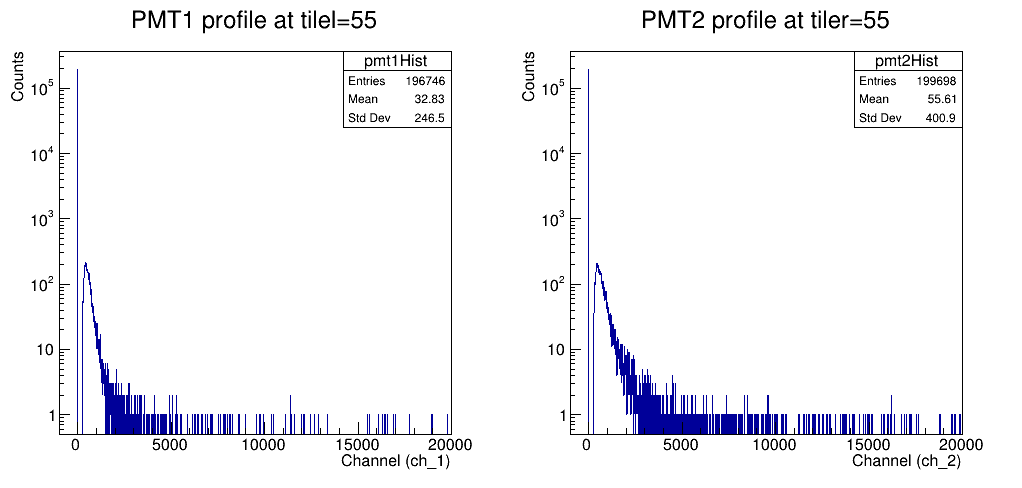
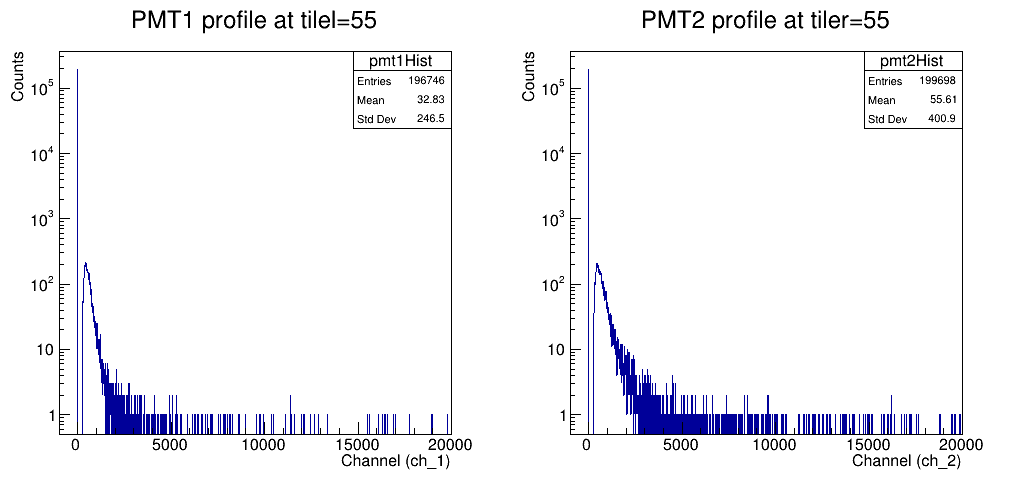
Adde tree ch_1 and ch_2 profiles

Changed region(s): [[0.3337, 0.0922, 0.455, 0.2766], [0.819, 0.0922, 0.9403, 0.2766]]

diff --git a/src/helper/TreeHelper.cpp b/src/helper/TreeHelper.cpp
@@ -56,6 +56,44 @@ int TreeHelper::init(const char* fileName){
 	return 0;
 }
 
+void TreeHelper::plotTreeProfiles(){
+	// Construct histograms for the TTree profiles (ch_1 and ch_2)
+	TH1F* ch1Hist = new TH1F("ch1Hist", "Channel profile for PMT1", Constants::CH_BINS, Constants::CH_MIN, Constants::CH_MAX);
+	ch1Hist->GetXaxis()->SetTitle("Events");
+	ch1Hist->SetStats(0);
+	ch1Hist->GetYaxis()->SetTitle("Channel (ch_1)");
+	TH1F* ch2Hist = new TH1F("ch2Hist", "Channel profile for PMT2", Constants::CH_BINS, Constants::CH_MIN, Constants::CH_MAX);
+	ch1Hist->GetXaxis()->SetTitle("Events");
+	ch1Hist->SetStats(0);
+	ch1Hist->GetYaxis()->SetTitle("Channel (ch_2)");
+
+	const char* treeName = myTree->GetName(); //Constants::getInstance()->parameters.treeName.Data();
+	TString myCanvasName = TString::Format("%s-ch_1-ch_2", treeName);
+	TString myCanvasTitle = TString::Format("TTree \"%s\" channel profiles. File \"%s\"", treeName, fileName->Data());
+	TCanvas* myCanvas = new TCanvas(myCanvasName, myCanvasTitle, 1024, 1024);
+	myCanvas->Divide(1,2);
+
+	TVirtualPad* pad1 = myCanvas->cd(1);
+	pad1->SetLogz();
+	pad1->SetLeftMargin(0.15);
+	pad1->SetRightMargin(0.15);
+	myTree->Draw("ch_1>>ch1Hist","",""); // no canvas, draw directly to histogram
+	pad1->SetLogy();
+	ch1Hist->Draw();
+
+	TVirtualPad* pad2 = myCanvas->cd(2);
+	pad2->SetLogz();
+	pad2->SetLeftMargin(0.15);
+	pad2->SetRightMargin(0.15);
+	myTree->Draw("ch_2>>ch2Hist","",""); // no canvas, draw directly to histogram
+	pad2->SetLogy();
+	ch2Hist->Draw();
+
+	// Save canvas to file
+	// TString pngFilePath = TString(myCanvas->GetName()) + ".png";
+	// myCanvas->SaveAs(pngFilePath);
+}
+
 void TreeHelper::plotTree(){
 	// Construct histograms (ch_1:tilel) and (ch_2:tiler) from the TTree
 	TH2F* ch1TilelHist = new TH2F("ch1TilelHist", "Channel vs Tile for PMT1",
@@ -84,7 +122,7 @@ void TreeHelper::plotTree(){
 	amp2TilerHist->GetYaxis()->SetTitle("Amplitude (amp_2)");
 	amp2TilerHist->SetStats(0);
 
-	const char* treeName = Constants::getInstance()->parameters.treeName.Data();
+	const char* treeName = myTree->GetName(); //Constants::getInstance()->parameters.treeName.Data();
 	TString myCanvasName = TString::Format("%s-ch:tile-amp:tile", treeName);
 	TString myCanvasTitle = TString::Format("TTree \"%s\". File \"%s\"", treeName, fileName->Data());
 	TCanvas* myCanvas = new TCanvas(myCanvasName, myCanvasTitle, 1024, 1024);

diff --git a/src/main.cpp b/src/main.cpp
@@ -25,6 +25,10 @@ int run(const char* fileName) {
 		TreeHelper::getInstance()->plotTree();
 	}
 
+	// Temporary plor tree profiles for ch_! and ch_2
+	// Need to study the region between the pedestal and first peak
+	TreeHelper::getInstance()->plotTreeProfiles();
+
 	// Prepare histograms for the PMT projection spectra
 	TString pmt1HistTitle = TString::Format("PMT1 profile at tilel=%d", Constants::getInstance()->parameters.tileProfile);
 	TH1* pmt1Hist = new TH1F("pmt1Hist", pmt1HistTitle, 2100, -1000, 20000);
@@ -45,11 +49,12 @@ int run(const char* fileName) {
 	TVirtualPad* pmtsCanvasPad1 = pmtsCanvas->cd(1);
 	pmtsCanvasPad1->SetLogy();
 	pmt1Hist->Draw();
-	GraphicsUtils::styleLegend(pmt1Hist, pmtsCanvasPad1);
+	GraphicsUtils::alignStats(pmt1Hist, pmtsCanvasPad1);
 	TVirtualPad* pmtsCanvasPad2 = pmtsCanvas->cd(2);
 	pmtsCanvasPad2->SetLogy();
 	pmt2Hist->Draw();
-	GraphicsUtils::styleLegend(pmt2Hist, pmtsCanvasPad2);
+//	GraphicsUtils::setMyStatsDisplay(pmt2Hist, pmtsCanvasPad2);
+	GraphicsUtils::alignStats(pmt2Hist, pmtsCanvasPad2);
 
 	// Save canvas with PMT profiles to file
 	TString pngFilePath = TString(pmtsCanvas->GetName()) + ".png";
@@ -60,6 +65,7 @@ int run(const char* fileName) {
 	TCanvas* fitCanvas = new TCanvas("fitCanvas", "fitCanvas", 1024, 512);
 	fitCanvas->SetLogy();
 	pmt1Hist->Fit(fitFunction->GetName());
+	GraphicsUtils::showFitParametersInStats(pmt1Hist, fitCanvas);
 	pmt1Hist->Draw();
 
 	return 0;

diff --git a/src/utils/GraphicsUtils.cpp b/src/utils/GraphicsUtils.cpp
@@ -17,14 +17,38 @@ GraphicsUtils::~GraphicsUtils() {
 	// TODO Auto-generated destructor stub
 }
 
-void GraphicsUtils::styleLegend(TH1* hist, TVirtualPad* pad){
+void GraphicsUtils::setMyStatsDisplay(TH1* hist, TVirtualPad* pad){
+	pad->Modified();
 	pad->Update();
 	TPaveStats *stats = (TPaveStats*) hist->FindObject("stats");
-	stats->SetX1NDC(0.680);
-	stats->SetY1NDC(0.742);
+	// Modify statistics display https://root.cern.ch/doc/master/classTPaveStats.html
+	stats->SetOptStat(10);
+	pad->Modified();
+	pad->Update();
+}
+
+void GraphicsUtils::alignStats(TH1* hist, TVirtualPad* pad){
+	pad->Modified();
+	pad->Update();
+	TPaveStats *stats = (TPaveStats*) hist->FindObject("stats");
+	Double_t statsWidth = stats->GetX2NDC() - stats->GetX1NDC();
+	Double_t statsHeight = stats->GetY2NDC() - stats->GetY1NDC();
+	// Move stats horizontally
 	stats->SetX2NDC(0.9);
+	stats->SetX1NDC(stats->GetX2NDC() - statsWidth);
+	// Move stats vertically
 	stats->SetY2NDC(0.9);
-//	stats->SetOptStat(11);
+	stats->SetY1NDC(stats->GetY2NDC() - statsHeight);
+	// Display only histogram entries
+	pad->Modified();
+	pad->Update();
+}
+
+void GraphicsUtils::showFitParametersInStats(TH1* hist, TVirtualPad* pad){
+	pad->Modified();
+	pad->Update();
+	TPaveStats *stats = (TPaveStats*) hist->FindObject("stats");
+	stats->SetOptFit(1011);
 	pad->Modified();
 	pad->Update();
 }

diff --git a/src/fit/Spectrum.cpp b/src/fit/Spectrum.cpp
@@ -6,14 +6,14 @@
  */
 
 #include "Spectrum.h"
-
+#include "../model/Constants.h"
 #include <TMath.h>
 
 Spectrum::Spectrum(Int_t nMaxVal=100) : nMax(nMaxVal), pi(TMath::Pi()), e(TMath::E()) {
 	// Initialize parameters as RooRealVars even though we're not using RooFit
 	// Convenient because RooRealVar has name, value and limits
 	// Parameter values taken from Fig.2, https://doi.org/10.1016/0168-9002(94)90183-X
-	RooRealVar* Q0 = new RooRealVar("Q0", "pedestal", 23.26, 0, 2000, "e");
+	RooRealVar* Q0 = new RooRealVar("Q0", "pedestal", 23.26, 0, Constants::CH_MAX, "e");
 	RooRealVar* s0 = new RooRealVar("s0", "standard deviation of the type I background process", 0.192, 0, 1, "");
 	RooRealVar* Q1 = new RooRealVar("Q1", "average charge at the PM output", 35.04, 0, 500, "e");
 	RooRealVar* s1 = new RooRealVar("s1", "corresponding standard deviation of the charge distribution", 11.73, 0, 100, "");

diff --git a/src/utils/FitUtils.cpp b/src/utils/FitUtils.cpp
@@ -56,7 +56,7 @@ TF1* FitUtils::getRealFitFunction(TH1* hist){
 	// Instantiate TF1 from a member function of a general C++ class
 	// https://root.cern.ch/doc/master/classTF1.html#F6
 	Spectrum* spectrum = new Spectrum(20);
-	TF1* realFunc = new TF1("realFunc", spectrum, &Spectrum::real, xMin, xMax, Spectrum::parameters->getSize(), "Spectrum", "ideal");
+	TF1* realFunc = new TF1("realFunc", spectrum, &Spectrum::real, xMin, 2000, Spectrum::parameters->getSize(), "Spectrum", "ideal");
 
 	// Iterate parameters, set their names, starting values and limits
 	TIterator* it = Spectrum::parameters->createIterator();

diff --git a/src/utils/GraphicsUtils.h b/src/utils/GraphicsUtils.h
@@ -16,7 +16,9 @@ public:
 	GraphicsUtils();
 	virtual ~GraphicsUtils();
 
-	static void styleLegend(TH1*, TVirtualPad*);
+	static void setMyStatsDisplay(TH1*, TVirtualPad*);
+	static void alignStats(TH1*, TVirtualPad*);
+	static void showFitParametersInStats(TH1*, TVirtualPad*);
 };
 
 #endif /* SRC_HELPER_GRAPHICSUTILS_H_ */

diff --git a/src/model/Constants.cpp b/src/model/Constants.cpp
@@ -49,7 +49,7 @@ const Int_t Constants::TILE_MAX = 146;
 
 const Int_t Constants::CH_BINS = 21000;
 const Int_t Constants::CH_MIN = -1000;
-const Int_t Constants::CH_MAX = 20000;
+const Int_t Constants::CH_MAX = 5000;
 
 const Int_t Constants::AMP_BINS = 4096;
 const Int_t Constants::AMP_MIN = 0;

diff --git a/src/helper/TreeHelper.h b/src/helper/TreeHelper.h
@@ -18,6 +18,7 @@ public:
 	virtual ~TreeHelper();
 
 	int init(const char*);
+	void plotTreeProfiles();
 	void plotTree();
 	void fillPmtHists(TH1*, TH1*);
 
